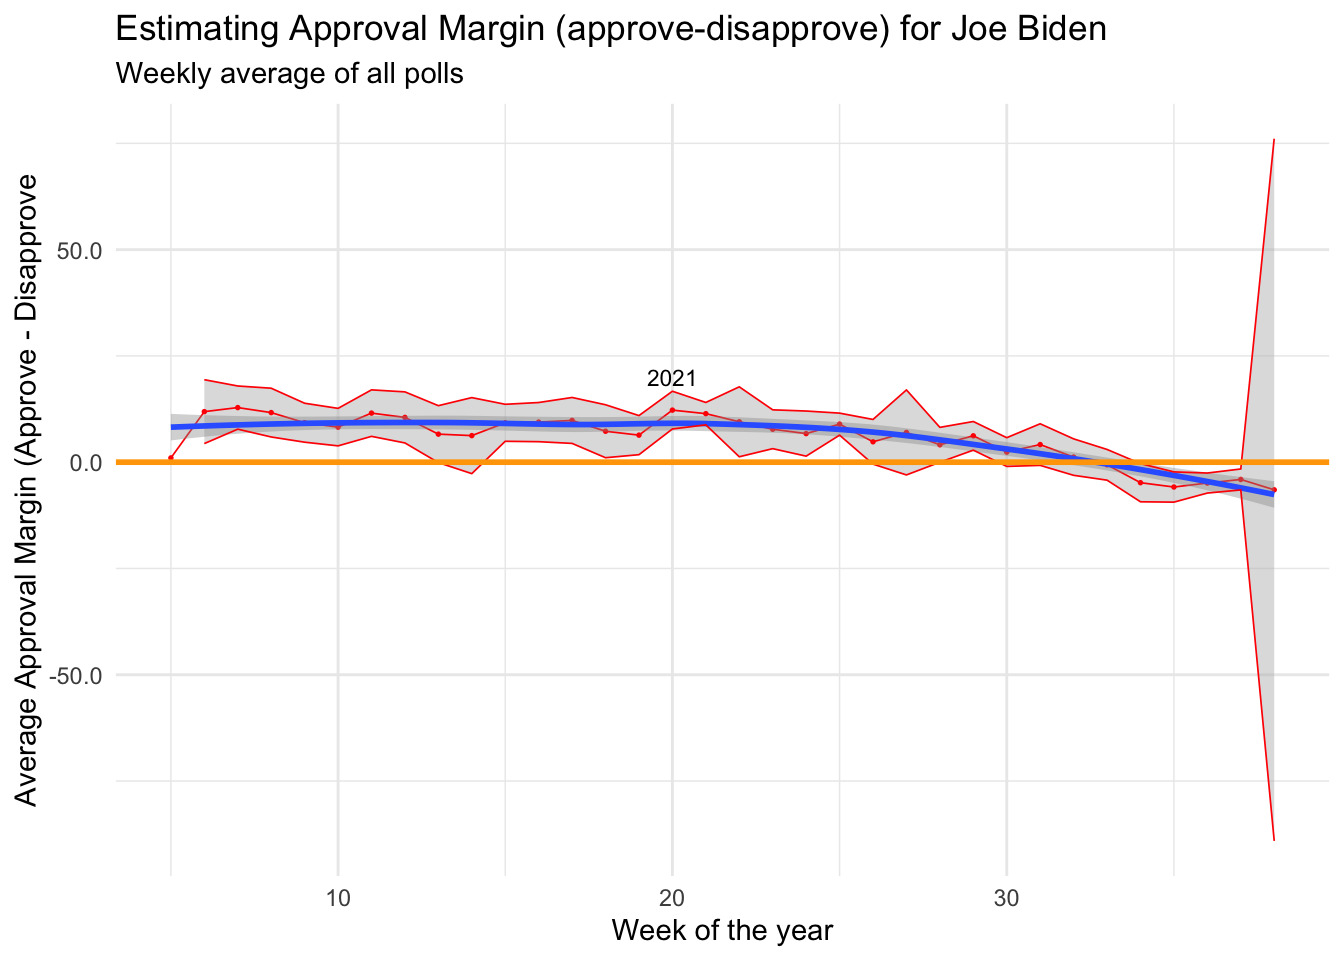
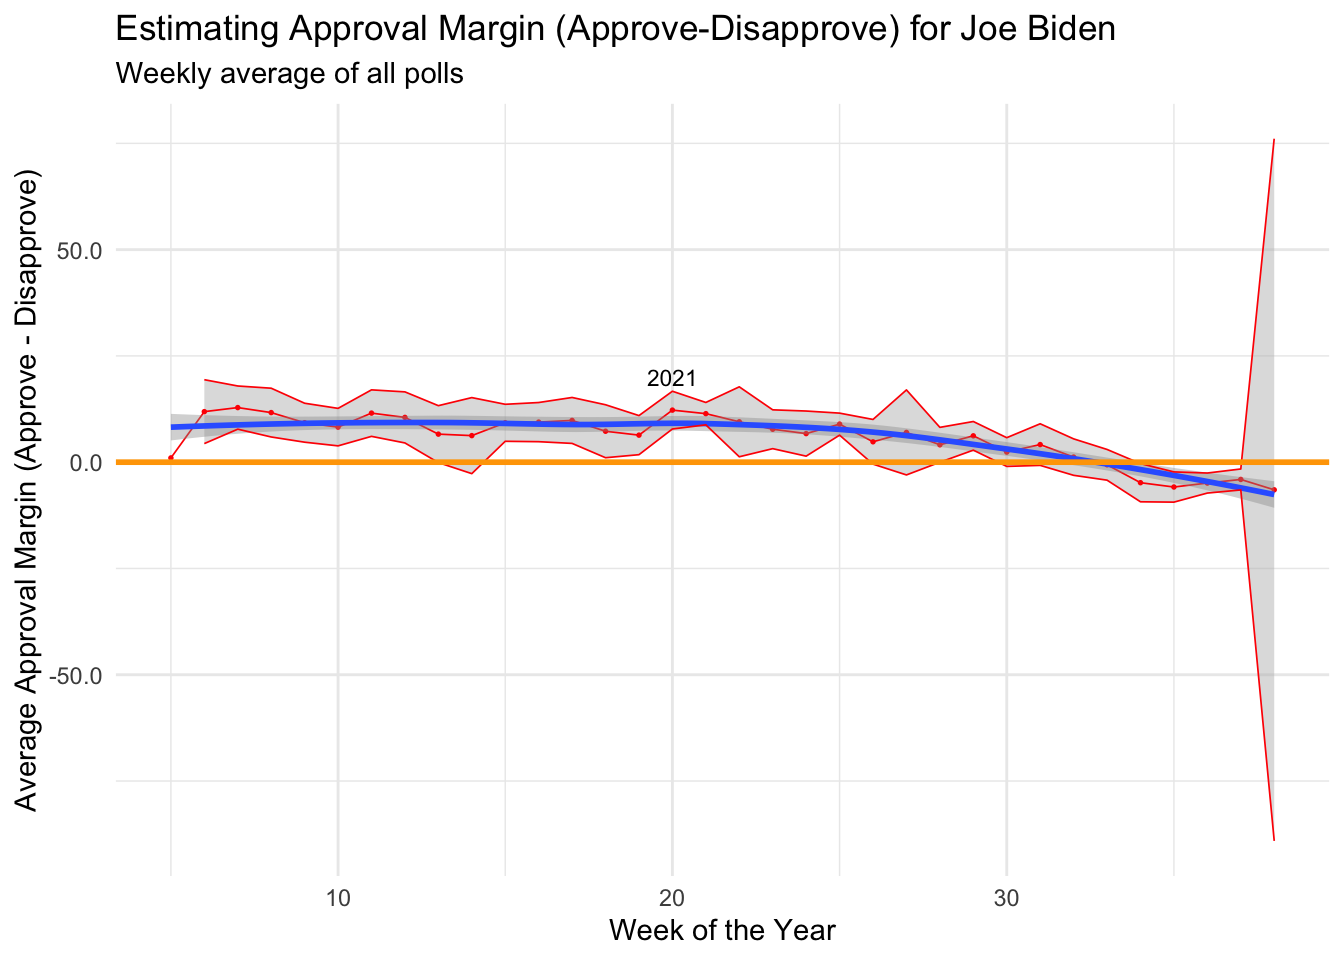
UPDATE 2

Changed region(s): [[0.4062, 0.0, 0.8438, 0.0625], [0.0, 0.1562, 0.0312, 0.8438], [0.4375, 0.9375, 0.625, 1.0]]

diff --git a/content/blogs/JoeB.html b/content/blogs/JoeB.html
@@ -1,0 +1,148 @@
+---
+categories:
+- ""
+- ""
+date: "2017-10-31T21:28:43-05:00"
+description: This section involves using the General Social Survey data to analyse information about social media and technology use. Analysis using confidence intervals allows us to asnwer questions like - "Do university graduates use twitter more or less than non-graduates?"
+image: biden2.jpg
+keywords: ""
+slug: joebiden
+title: Joe Biden's Approval Margins
+---
+
+<script src="/rmarkdown-libs/header-attrs/header-attrs.js"></script>
+
+
+<p>The website, fivethirtyeight.com has detailed data on <a href="https://projects.fivethirtyeight.com/biden-approval-ratings">all polls that track the president’s approval</a></p>
+<pre class="r"><code># Import approval polls data directly off fivethirtyeight website
+approval_polllist &lt;- read_csv(&#39;https://projects.fivethirtyeight.com/biden-approval-data/approval_polllist.csv&#39;) </code></pre>
+<pre><code>## Rows: 1598 Columns: 22</code></pre>
+<pre><code>## ── Column specification ────────────────────────────────────────────────────────
+## Delimiter: &quot;,&quot;
+## chr (12): president, subgroup, modeldate, startdate, enddate, pollster, grad...
+## dbl  (9): samplesize, weight, influence, approve, disapprove, adjusted_appro...
+## lgl  (1): tracking</code></pre>
+<pre><code>## 
+## ℹ Use `spec()` to retrieve the full column specification for this data.
+## ℹ Specify the column types or set `show_col_types = FALSE` to quiet this message.</code></pre>
+<pre class="r"><code>glimpse(approval_polllist)</code></pre>
+<pre><code>## Rows: 1,598
+## Columns: 22
+## $ president           &lt;chr&gt; &quot;Joseph R. Biden Jr.&quot;, &quot;Joseph R. Biden Jr.&quot;, &quot;Jos…
+## $ subgroup            &lt;chr&gt; &quot;All polls&quot;, &quot;All polls&quot;, &quot;All polls&quot;, &quot;All polls&quot;…
+## $ modeldate           &lt;chr&gt; &quot;9/20/2021&quot;, &quot;9/20/2021&quot;, &quot;9/20/2021&quot;, &quot;9/20/2021&quot;…
+## $ startdate           &lt;chr&gt; &quot;2/2/2021&quot;, &quot;2/2/2021&quot;, &quot;2/3/2021&quot;, &quot;2/4/2021&quot;, &quot;2…
+## $ enddate             &lt;chr&gt; &quot;2/4/2021&quot;, &quot;2/4/2021&quot;, &quot;2/5/2021&quot;, &quot;2/6/2021&quot;, &quot;2…
+## $ pollster            &lt;chr&gt; &quot;Rasmussen Reports/Pulse Opinion Research&quot;, &quot;Morni…
+## $ grade               &lt;chr&gt; &quot;B&quot;, &quot;B&quot;, &quot;B&quot;, &quot;B&quot;, &quot;B&quot;, &quot;B-&quot;, &quot;B&quot;, &quot;B&quot;, &quot;B&quot;, &quot;B&quot;,…
+## $ samplesize          &lt;dbl&gt; 1500, 15000, 15000, 15000, 1500, 1200, 15000, 1986…
+## $ population          &lt;chr&gt; &quot;lv&quot;, &quot;a&quot;, &quot;a&quot;, &quot;a&quot;, &quot;lv&quot;, &quot;rv&quot;, &quot;a&quot;, &quot;rv&quot;, &quot;lv&quot;, …
+## $ weight              &lt;dbl&gt; 0.33818752, 0.27683842, 0.24773944, 0.22571153, 0.…
+## $ influence           &lt;dbl&gt; 0, 0, 0, 0, 0, 0, 0, 0, 0, 0, 0, 0, 0, 0, 0, 0, 0,…
+## $ approve             &lt;dbl&gt; 49.0, 54.0, 54.0, 54.0, 50.0, 60.0, 55.0, 59.0, 51…
+## $ disapprove          &lt;dbl&gt; 48.0, 34.0, 34.0, 34.0, 47.0, 32.0, 33.0, 35.0, 46…
+## $ adjusted_approve    &lt;dbl&gt; 51.51398, 52.66515, 52.66515, 52.66515, 52.51398, …
+## $ adjusted_disapprove &lt;dbl&gt; 42.04507, 37.28985, 37.28985, 37.28985, 41.04507, …
+## $ multiversions       &lt;chr&gt; NA, NA, NA, NA, NA, NA, NA, NA, NA, NA, NA, NA, NA…
+## $ tracking            &lt;lgl&gt; TRUE, TRUE, TRUE, TRUE, TRUE, NA, TRUE, NA, TRUE, …
+## $ url                 &lt;chr&gt; &quot;https://www.rasmussenreports.com/public_content/p…
+## $ poll_id             &lt;dbl&gt; 74347, 74367, 74368, 74369, 74349, 74354, 74372, 7…
+## $ question_id         &lt;dbl&gt; 139654, 139734, 139735, 139736, 139669, 139679, 13…
+## $ createddate         &lt;chr&gt; &quot;2/5/2021&quot;, &quot;2/11/2021&quot;, &quot;2/11/2021&quot;, &quot;2/11/2021&quot;,…
+## $ timestamp           &lt;chr&gt; &quot;13:32:09 20 Sep 2021&quot;, &quot;13:32:09 20 Sep 2021&quot;, &quot;1…</code></pre>
+<pre class="r"><code># Use `lubridate` to fix dates, as they are given as characters.</code></pre>
+<hr />
+<div id="create-a-plot" class="section level2">
+<h2>Create a plot</h2>
+<hr />
+<p>We are going to use the above data to calculate the average net approval rate (approve- disapprove) for each week since Joe Biden got into office. We will plot the net approval, along with its 95% confidence interval. There are various dates given for each poll, but we will use - <code>enddate</code>, i.e., the date the poll ended.</p>
+<pre class="r"><code>#We begin by preparing the dataset
+
+#We calculate the net approval at a point in time as a function of the approval and the disapproval
+approval_polllist$enddate &lt;- mdy(approval_polllist$enddate)
+new_approval &lt;- approval_polllist %&gt;% 
+  filter(subgroup==&quot;Voters&quot;) %&gt;% 
+  mutate(net_approve = approve - disapprove, year = year(enddate), week = week(enddate))
+
+glimpse(new_approval)</code></pre>
+<pre><code>## Rows: 383
+## Columns: 25
+## $ president           &lt;chr&gt; &quot;Joseph R. Biden Jr.&quot;, &quot;Joseph R. Biden Jr.&quot;, &quot;Jos…
+## $ subgroup            &lt;chr&gt; &quot;Voters&quot;, &quot;Voters&quot;, &quot;Voters&quot;, &quot;Voters&quot;, &quot;Voters&quot;, …
+## $ modeldate           &lt;chr&gt; &quot;9/20/2021&quot;, &quot;9/20/2021&quot;, &quot;9/20/2021&quot;, &quot;9/20/2021&quot;…
+## $ startdate           &lt;chr&gt; &quot;2/2/2021&quot;, &quot;2/4/2021&quot;, &quot;2/3/2021&quot;, &quot;2/5/2021&quot;, &quot;2…
+## $ enddate             &lt;date&gt; 2021-02-04, 2021-02-06, 2021-02-07, 2021-02-07, 2…
+## $ pollster            &lt;chr&gt; &quot;Rasmussen Reports/Pulse Opinion Research&quot;, &quot;RMG R…
+## $ grade               &lt;chr&gt; &quot;B&quot;, &quot;B-&quot;, &quot;B&quot;, &quot;B&quot;, &quot;B&quot;, &quot;B+&quot;, &quot;B&quot;, &quot;B+&quot;, &quot;B&quot;, &quot;B…
+## $ samplesize          &lt;dbl&gt; 1500, 1200, 1500, 1986, 1500, 1306, 1500, 938, 150…
+## $ population          &lt;chr&gt; &quot;lv&quot;, &quot;rv&quot;, &quot;lv&quot;, &quot;rv&quot;, &quot;lv&quot;, &quot;rv&quot;, &quot;lv&quot;, &quot;rv&quot;, &quot;l…
+## $ weight              &lt;dbl&gt; 0.3381875, 0.8806739, 0.1776436, 1.0076223, 0.5016…
+## $ influence           &lt;dbl&gt; 0, 0, 0, 0, 0, 0, 0, 0, 0, 0, 0, 0, 0, 0, 0, 0, 0,…
+## $ approve             &lt;dbl&gt; 49, 60, 50, 59, 51, 53, 51, 60, 50, 52, 53, 57, 53…
+## $ disapprove          &lt;dbl&gt; 48, 32, 47, 35, 46, 40, 47, 40, 47, 45, 43, 35, 44…
+## $ adjusted_approve    &lt;dbl&gt; 51.53864, 59.21127, 52.53864, 56.89185, 53.53864, …
+## $ adjusted_disapprove &lt;dbl&gt; 42.70779, 33.57311, 41.70779, 36.07688, 40.70779, …
+## $ multiversions       &lt;chr&gt; NA, NA, NA, NA, NA, NA, NA, NA, NA, NA, NA, NA, NA…
+## $ tracking            &lt;lgl&gt; TRUE, NA, TRUE, NA, TRUE, NA, TRUE, NA, TRUE, TRUE…
+## $ url                 &lt;chr&gt; &quot;https://www.rasmussenreports.com/public_content/p…
+## $ poll_id             &lt;dbl&gt; 74347, 74354, 74349, 74351, 74352, 74360, 74359, 7…
+## $ question_id         &lt;dbl&gt; 139654, 139679, 139669, 139673, 139675, 139698, 13…
+## $ createddate         &lt;chr&gt; &quot;2/5/2021&quot;, &quot;2/9/2021&quot;, &quot;2/8/2021&quot;, &quot;2/8/2021&quot;, &quot;2…
+## $ timestamp           &lt;chr&gt; &quot;13:32:13 20 Sep 2021&quot;, &quot;13:32:13 20 Sep 2021&quot;, &quot;1…
+## $ net_approve         &lt;dbl&gt; 1, 28, 3, 24, 5, 13, 4, 20, 3, 7, 10, 22, 9, 18, 1…
+## $ year                &lt;dbl&gt; 2021, 2021, 2021, 2021, 2021, 2021, 2021, 2021, 20…
+## $ week                &lt;dbl&gt; 5, 6, 6, 6, 6, 6, 6, 6, 6, 6, 7, 7, 7, 7, 7, 7, 7,…</code></pre>
+<pre class="r"><code>#We then calculate the 95% CI for average approval margin. This is done using the standard error which is also calculated below. 
+
+margin_ci &lt;- new_approval %&gt;% 
+  group_by(week) %&gt;% 
+  summarise(avg_approval_margin = mean(net_approve),
+            sd_margin = sd(net_approve, na.rm=TRUE),
+            count_margin = n(),
+            se_margin = sd_margin / sqrt(count_margin),
+            ci_margin_up = avg_approval_margin + qt(.975, count_margin-1)*se_margin ,
+            ci_margin_dw = avg_approval_margin - qt(.975, count_margin-1)*se_margin
+            )</code></pre>
+<pre><code>## Warning in qt(0.975, count_margin - 1): NaNs produced
+
+## Warning in qt(0.975, count_margin - 1): NaNs produced</code></pre>
+<pre class="r"><code>glimpse(margin_ci)</code></pre>
+<pre><code>## Rows: 34
+## Columns: 7
+## $ week                &lt;dbl&gt; 5, 6, 7, 8, 9, 10, 11, 12, 13, 14, 15, 16, 17, 18,…
+## $ avg_approval_margin &lt;dbl&gt; 1.000000, 11.888889, 12.846154, 11.666667, 9.28571…
+## $ sd_margin           &lt;dbl&gt; NA, 9.778093, 8.404822, 9.492687, 7.936562, 6.9429…
+## $ count_margin        &lt;int&gt; 1, 9, 13, 13, 14, 12, 11, 15, 10, 8, 15, 14, 14, 1…
+## $ se_margin           &lt;dbl&gt; NA, 3.259364, 2.331078, 2.632798, 2.121135, 2.0042…
+## $ ci_margin_up        &lt;dbl&gt; NaN, 19.404997, 17.925137, 17.403040, 13.868149, 1…
+## $ ci_margin_dw        &lt;dbl&gt; NaN, 4.37278093, 7.76717100, 5.93029320, 4.7032800…</code></pre>
+<p>Now we can plot the average approval margin for Joe Biden over the course of his time in office. We do so with the confidence intervals attached. We also plot a line at margin=zero, this allows us to clearly see the points at which Biden moves from a net positive to a net negative approval margin. A line of best flit is plotted in blue</p>
+<pre class="r"><code>#Plot the for average approval margin
+margin_ci %&gt;% 
+  ggplot(aes(week)) +
+  geom_ribbon(aes(ymin = ci_margin_up, ymax = ci_margin_dw), fill=&quot;grey&quot;, alpha = 0.5)+
+  geom_line(aes(y=avg_approval_margin, group=1), color = &quot;red&quot;, size = 0.3) +
+  geom_point(aes(y=avg_approval_margin, group=1), color = &quot;red&quot;, size  = 0.3) +
+  geom_smooth(aes(y=avg_approval_margin)) +
+  geom_line(aes(y=ci_margin_up, group=1), color=&quot;red&quot;, size = 0.3)+
+  geom_line(aes(y=ci_margin_dw, group=1), color=&quot;red&quot;, size = 0.3)+
+  
+  #add the aesthetics for the graph
+  geom_hline(yintercept=0, linetype=&quot;solid&quot;, color = &quot;orange&quot;, size = 1)+
+  labs(title=&quot;Estimating Approval Margin (Approve-Disapprove) for Joe Biden&quot;,
+       subtitle = &quot;Weekly average of all polls&quot;,
+       x = &quot;Week of the Year&quot;, 
+       y = &quot;Average Approval Margin (Approve - Disapprove)&quot;) +
+  annotate(&quot;text&quot;, x = 20, y = 20, label = &quot;2021&quot;, color = &#39;black&#39;,size = 3)+
+  scale_y_continuous(
+    labels = scales::number_format(accuracy = 0.1))+
+  theme_minimal()+
+  NULL</code></pre>
+<pre><code>## `geom_smooth()` using method = &#39;loess&#39; and formula &#39;y ~ x&#39;</code></pre>
+<pre><code>## Warning: Removed 1 row(s) containing missing values (geom_path).
+
+## Warning: Removed 1 row(s) containing missing values (geom_path).</code></pre>
+<p><img src="/blogs/JoeB_files/figure-html/unnamed-chunk-4-1.png" width="672" /></p>
+<p>Here, we can see that Biden was able to maintain a fairly positive approval rating for his 30 weeks in office. However, our confidence intervals suggest that there is a possibility that his net approval rating might have been negative at points during this first 30 weeks.</p>
+<p>Over the course of the last 5 weeks, we can see that Biden’s net approval margin has become negative, likely as a result of his response to conflicts in Afghanistan. Notably, the confidence interval for the most recent data point is huge, but this is likely to be the result of insufficient data, as supposed to a genuinely large spread of results.</p>
+</div>
